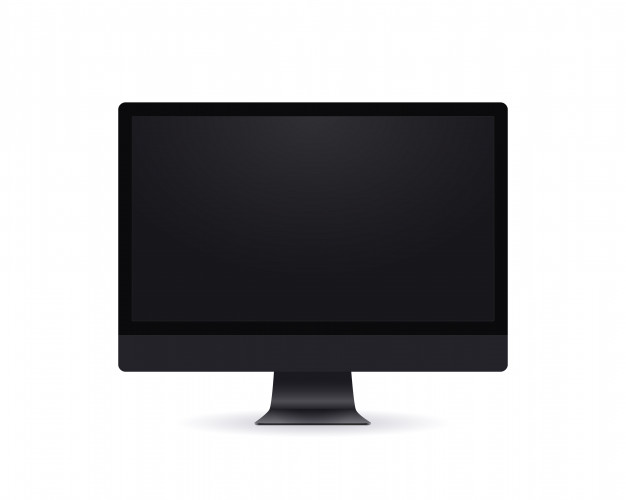
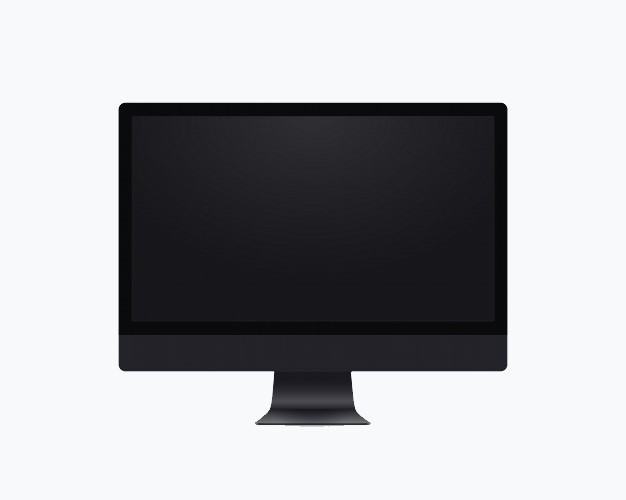
fix: responsive design in section Projects; background for mobile added

Changed region(s): [[0.3946, 0.84, 0.607, 0.87]]

diff --git a/src/Components/Slider.js b/src/Components/Slider.js
@@ -3,6 +3,7 @@ import { CSSTransition, TransitionGroup } from 'react-transition-group';
 import uuidv4 from 'uuid/v4';
 import PropTypes from 'prop-types';
 import screen from '../Images/screen.jpg';
+import phone from '../Images/phone.jpg';
 import './Slider.css';
 
 class Slider extends React.Component {
@@ -39,12 +40,14 @@ class Slider extends React.Component {
       <TransitionGroup className="slide-container" onClick={this.handleClick}>
         <CSSTransition key={uuidv4()} timeout={1000} classNames="slide">
           <img
-            className={mobile ? 'img-slide-mobile' : 'img-slide'}
+            className={mobile ? 'img-slide-mobile' : 'img-slide-screen'}
             src={images[currentImage]}
             alt="img-screnshot"
           />
         </CSSTransition>
-        {mobile ? null : <img className="img-screen" src={screen} alt="img-scren" />}
+        {mobile
+          ? <img className="img-phone" src={phone} alt="img-scren" />
+          : <img className="img-screen" src={screen} alt="img-scren" />}
       </TransitionGroup>
     );
   }

diff --git a/src/Components/Slider.css b/src/Components/Slider.css
@@ -20,21 +20,31 @@
   opacity: 0;
 }
 
-.img-slide {
-  max-width: 19.6rem;
-  max-height: 10.8rem;
+.img-slide-screen {
+  max-width: 60%;
+  max-height: 20rem;
   position: absolute;
   z-index: 1;
-  left: 6.6rem;
-  top: 6rem;
+  left: 20%;
+  top: 22%;
 }
 
 .img-slide-mobile {
-  max-width: 100%;
+  max-width: 36%;
   max-height: 20rem;
+  position: absolute;
+  z-index: 1;
+  left: 32%;
+  top: 15%;
 }
 
 .img-screen {
   position: relative;
   width: 100%;
+}
+
+.img-phone {
+  position: relative;
+  width: 100%;
+  max-height: 30rem;
 }
